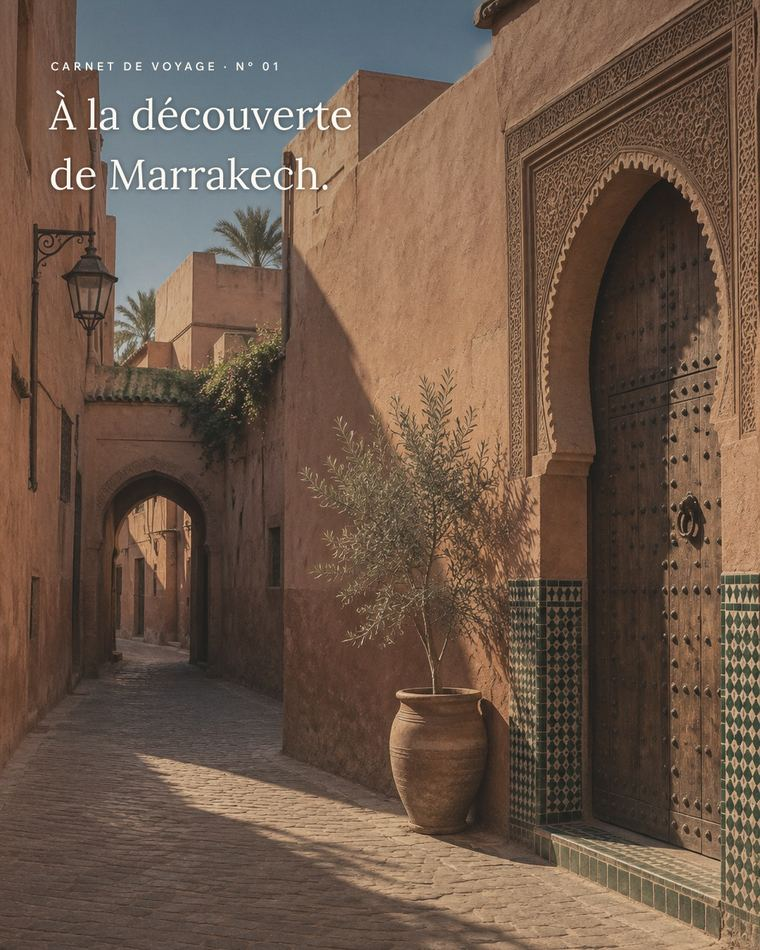
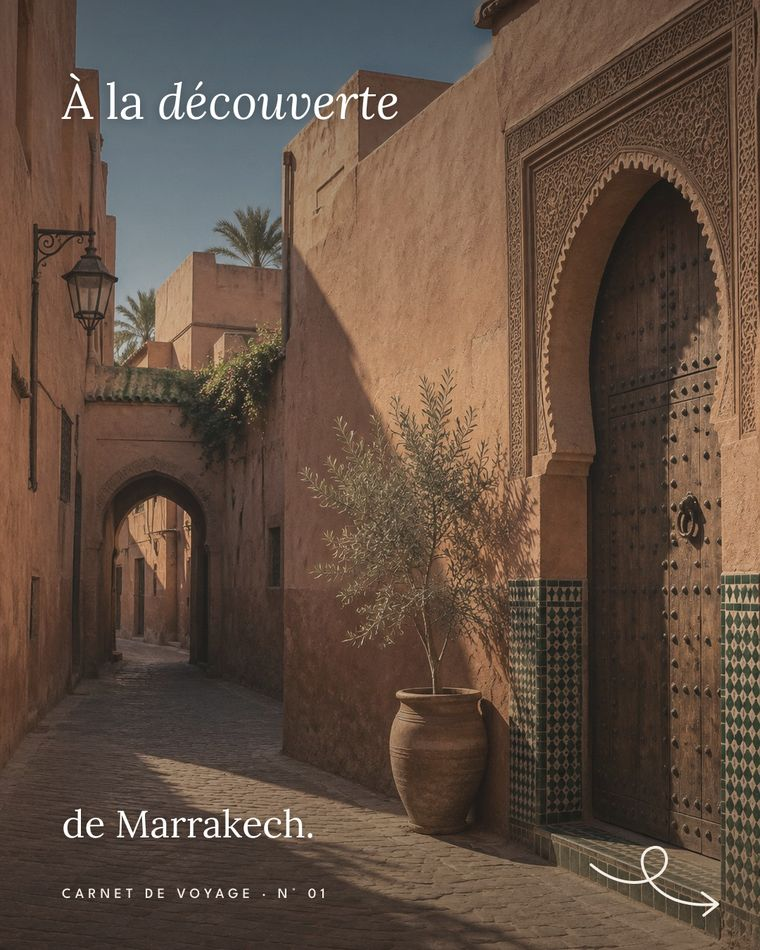
Couvertures « Le récit » appliquées ; propositions Livre, Moodboard, Idées déco

diff --git a/social/2026-11-strategie-instagram/index.html b/social/2026-11-strategie-instagram/index.html
@@ -140,6 +140,9 @@ section{padding-block:80px 0}
 
 #apx-tabs,#dir-tabs{margin-bottom:20px}
 .dir-intro{max-width:62ch; color:var(--muted); margin-bottom:20px}
+.prop{border-top:3px solid var(--fg); padding-block:24px 8px; display:grid; gap:14px}
+.prop h3{font-size:clamp(24px,2.6vw,32px)}
+.prop p.d{color:var(--muted); font-size:16px; max-width:70ch}
 .dir-pts{margin:0; padding-left:18px; display:grid; gap:8px; font-size:16px}
 .apercu{display:grid; grid-template-columns:minmax(0,420px) 1fr; gap:40px; align-items:start}
 .phone{border:10px solid var(--fg); border-radius:36px; overflow:hidden auto; max-height:min(860px,85vh); background:#fff; scrollbar-width:none}
@@ -162,7 +165,7 @@ footer{margin-top:80px; padding-top:24px; border-top:1px solid var(--line); font
 
 <nav class="nav" aria-label="Sommaire"><div class="nav-in">
   <span class="logo" role="img" aria-label="casa senso"></span>
-  <a href="#strategie">Stratégie</a><a href="#directions">Directions</a><a href="#patterns">Patterns</a><a href="#rubriques">Rubriques</a><a href="#charte">Charte</a><a href="#calendrier">Calendrier</a><a href="#apercu">Aperçu</a>
+  <a href="#strategie">Stratégie</a><a href="#directions">Couvertures</a><a href="#propositions">Propositions</a><a href="#patterns">Patterns</a><a href="#rubriques">Rubriques</a><a href="#charte">Charte</a><a href="#calendrier">Calendrier</a><a href="#apercu">Aperçu</a>
 </div></nav>
 
 <div class="wrap">
@@ -185,8 +188,8 @@ footer{margin-top:80px; padding-top:24px; border-top:1px solid var(--line); font
   </section>
 
   <section id="directions" aria-labelledby="t-dir">
-    <div class="sec-head"><h2 id="t-dir">Trois directions de couverture</h2><p class="eyebrow">À choisir · 13.11</p></div>
-    <p class="dir-intro">Même système pour les 12 couvertures, pour que le fil se lise comme une seule publication. Choisissez une direction ; on reprend ensuite chaque couverture slide par slide.</p>
+    <div class="sec-head"><h2 id="t-dir">Couvertures : « Le récit »</h2><p class="eyebrow">Retenue le 13.11</p></div>
+    <p class="dir-intro">Direction C retenue : photo plein cadre et une phrase en sérif. Elle est appliquée au Voyage, aux Coulisses, à l’Avant / après, à la Réalisation et à ICHI. Le Livre, le Moodboard et les Idées déco gardent leur propre couverture, dans la même famille de couleurs : propositions ci-dessous.</p>
     <div class="tabs" id="dir-tabs" role="tablist" aria-label="Directions"></div>
     <div class="apercu">
       <div class="phone" id="dir-phone"><img id="dir-img" src="img/dirA-grid.jpg" alt=""></div>
@@ -198,6 +201,11 @@ footer{margin-top:80px; padding-top:24px; border-top:1px solid var(--line); font
       </div>
     </div>
     <div class="reel" id="dir-reel" style="margin-top:28px"></div>
+  </section>
+
+  <section id="propositions" aria-labelledby="t-prop">
+    <div class="sec-head"><h2 id="t-prop">Propositions à choisir</h2><p class="eyebrow">Livre · Moodboard · Idées déco</p></div>
+    <div id="props"></div>
   </section>
 
   <section id="patterns" aria-labelledby="t-pat">
@@ -377,7 +385,32 @@ function showDir(i){ const d = DIRS[i]; $("#dir-img").src = `img/dir${d.k}-grid.
   $("#dir-reel").replaceChildren(...list.map((s, j) => h("button", {type:"button", "aria-label":`${d.n}, ${DNAMES[j]}`, onclick:() => openLB(list, j, d.n)}, h("img", {src:s, alt:"", loading:"lazy"}))));
   [...$("#dir-tabs").children].forEach((b, j) => b.setAttribute("aria-selected", String(j === i))); }
 DIRS.forEach((d, i) => $("#dir-tabs").append(h("button", {type:"button", role:"tab", onclick:() => showDir(i)}, d.n)));
-showDir(0);
+showDir(2);
+
+// Propositions (Livre, Moodboard, Idées déco)
+const P = (k, n) => Array.from({length:n}, (_, i) => `img/prop-${k}-${i + 1}.jpg`);
+const PROPS = [
+  {n:"Le Livre · couverture", c:"var(--r-livre)", opts:[
+    ["L1 · Récit + signet", P("L1",4), "La couverture « Le récit », sa phrase en sérif, et un signet ocre qui porte le numéro du chapitre."],
+    ["L2 · Couverture de livre", P("L2",4), "Page crème, grand numéro ocre, titre en italique, photo en médaillon et le dessin du chapitre."],
+    ["L3 · Récit + numéro", P("L3",4), "Photo plein cadre, grand numéro romain en sérif, sa phrase en bas sous un filet ocre."]]},
+  {n:"Moodboard · couverture magazine", c:"var(--r-mood)", opts:[
+    ["M1 · Couverture de magazine", P("M1",2), "Le canapé en velours plein cadre, « Moodboard » en titre de magazine, numéro et date, les quatre matières en ligne de couverture."],
+    ["M2 · Planche éditoriale", P("M2",2), "Page crème façon sommaire : quatre photos numérotées, le titre en sérif."],
+    ["M3 · Double lecture", P("M3",2), "Photo en haut, bande crème avec le titre en italique, les échantillons posés à la jonction."]]},
+  {n:"Idées déco · couverture", c:"var(--r-idees)", opts:[
+    ["I1 · Photo forte + 3", P("I1",2), "La photo du laiton en plein cadre, un grand « 3 » en sérif, l’olive en simple filet."],
+    ["I2 · Triptyque", P("I2",2), "Chêne, rotin et laiton côte à côte, bande olive avec le titre."],
+    ["I3 · Récit", P("I3",2), "Le traitement « Le récit » comme les autres rubriques, avec « À enregistrer »."]]}];
+PROPS.forEach(g => {
+  const reel = h("div", {class:"reel"}), desc = h("p", {class:"d"}), tabs = h("div", {class:"tabs", role:"tablist"});
+  function show(i){ const [label, list, d] = g.opts[i]; desc.textContent = d;
+    reel.replaceChildren(...list.map((s, j) => h("button", {type:"button", "aria-label":`${label}, slide ${j + 1}`, onclick:() => openLB(list, j, `${g.n} · ${label}`)}, h("img", {src:s, alt:"", loading:"lazy"}))));
+    [...tabs.children].forEach((b, j) => b.setAttribute("aria-selected", String(j === i))); }
+  g.opts.forEach(([label], i) => tabs.append(h("button", {type:"button", role:"tab", onclick:() => show(i)}, label)));
+  $("#props").append(h("article", {class:"prop", style:`border-top-color:${g.c}`}, h("h3", {}, g.n), tabs, desc, reel));
+  show(0);
+});
 
 // Aperçu : Casa Senso et comptes de référence
 const APX = [

diff --git a/outputs/batches/CASASENSO-directions-couvertures-20261113/FICHE-DE-LOT.md b/outputs/batches/CASASENSO-directions-couvertures-20261113/FICHE-DE-LOT.md
@@ -1,4 +1,4 @@
-# Lot CASASENSO-directions-couvertures-20261113 · statut : livré pour choix (13.11.2026)
+# Lot CASASENSO-directions-couvertures-20261113 · statut : C retenue, propositions Livre / Moodboard / Idées déco en attente (13.11.2026)
 Demande de Diego : audit du fil, manque de cohérence (couleurs, couvertures toutes différentes) ; couvertures « pas toutes similaires mais assez similaires » ; moodboard comme un magazine ; page héros du Livre à retravailler ; proposer 2–3 directions, puis travailler slide par slide.
 Références données par Diego : couverture House & Garden (déc. 2026), livre « Interiors » d'Amber Lewis, posts et grille d'Emily Henderson.
 Trois directions, 12 couvertures chacune + aperçu de grille 3:4 (Figma page 02, x 30000) :
@@ -7,3 +7,11 @@ Trois directions, 12 couvertures chacune + aperçu de grille 3:4 (Figma page 02,
 - C · Le récit (132:675) : photo plein cadre, phrase en Lora blanc avec un mot en italique, suite en bas avec flèche dessinée ; pas de carte de couleur.
 Aucune génération (textures et photos existantes). Textes : titres et phrases existants ; B contient quelques titres raccourcis et deux mentions d'attente à valider.
 Retours : en attente du choix de Diego.
+
+## Retours
+- 13.11.2026, Diego : préfère C « Le récit », mais pas identique partout ; même famille de couleurs. C appliquée tel quel au Voyage, aux Coulisses, à l'Avant / après, à la Réalisation et à ICHI (premières slides remplacées dans Figma, anciennes en Archives). Idées déco : garder une première image forte. Moodboard : façon magazine, plusieurs propositions. Livre : revoir la couverture pour que tout s'imbrique.
+## Propositions (propositions/, Figma page 02 x 30000)
+- Moodboard (133:544) : M1 couverture de magazine, M2 planche éditoriale, M3 double lecture (+ slide 2 chacune).
+- Livre (133:401) : L1 récit + signet, L2 couverture de livre, L3 récit + numéro (4 chapitres chacune).
+- Idées déco (133:493) : I1 photo forte + 3, I2 triptyque, I3 récit (+ slide 2).
+Aucune génération. À surveiller : I1 dégradé chaud proche d'un voile ; L2 III montre l'affiche « VOYAGE EVASION ».

diff --git a/docs/decisions-strategie.md b/docs/decisions-strategie.md
@@ -200,3 +200,10 @@ Format : date · décision · raison · remplace · statut · source.
 - **Remplace** : Avant / après à bulles (Archives) ; Livre IV et Marrakech « en réserve ».
 - **Statut** : décidé ; bio optimisée et posts épinglés = proposition à valider avec Laetitia.
 - **Source** : Diego, conversation du 13.11.2026.
+
+## 2026-11-13 · Couvertures : direction « Le récit » retenue
+- **Décision** : les couvertures suivent la direction C « Le récit » (photo plein cadre, phrase en Lora blanc avec un mot en italique, flèche dessinée) pour Voyage, Coulisses, Avant / après, Réalisation et ICHI. Le Livre, le Moodboard et les Idées déco gardent leur propre couverture dans la même famille de couleurs (propositions en cours).
+- **Raison** : audit du fil par Diego, manque de cohérence des couleurs et des couvertures.
+- **Remplace** : les couvertures précédentes de ces 5 rubriques (Archives du Figma) ; Lora n'est plus réservé au Voyage pour les couvertures.
+- **Statut** : décidé pour 5 rubriques ; choix Livre (L1–L3), Moodboard (M1–M3), Idées déco (I1–I3) en attente.
+- **Source** : Diego, conversation du 13.11.2026.
